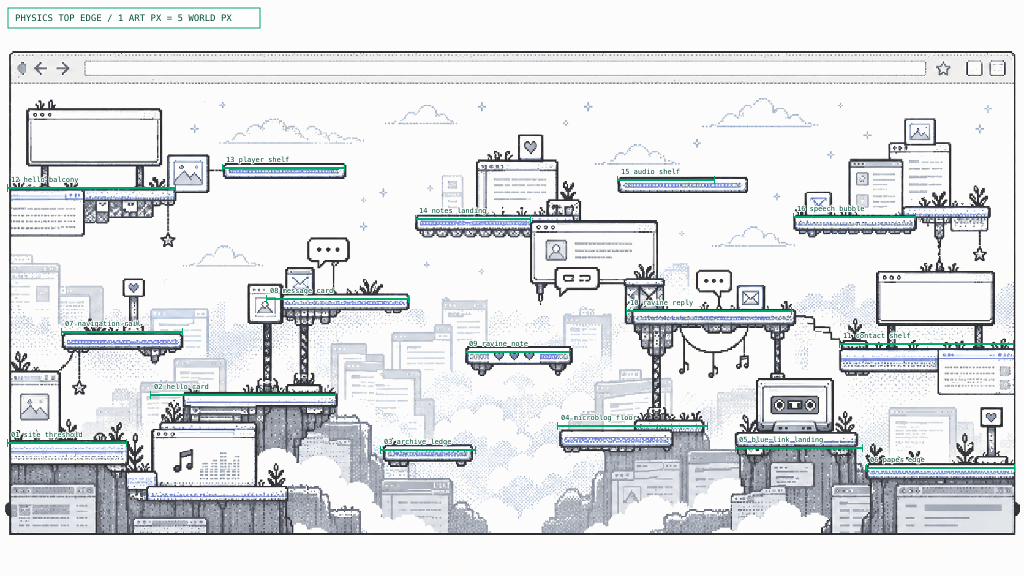
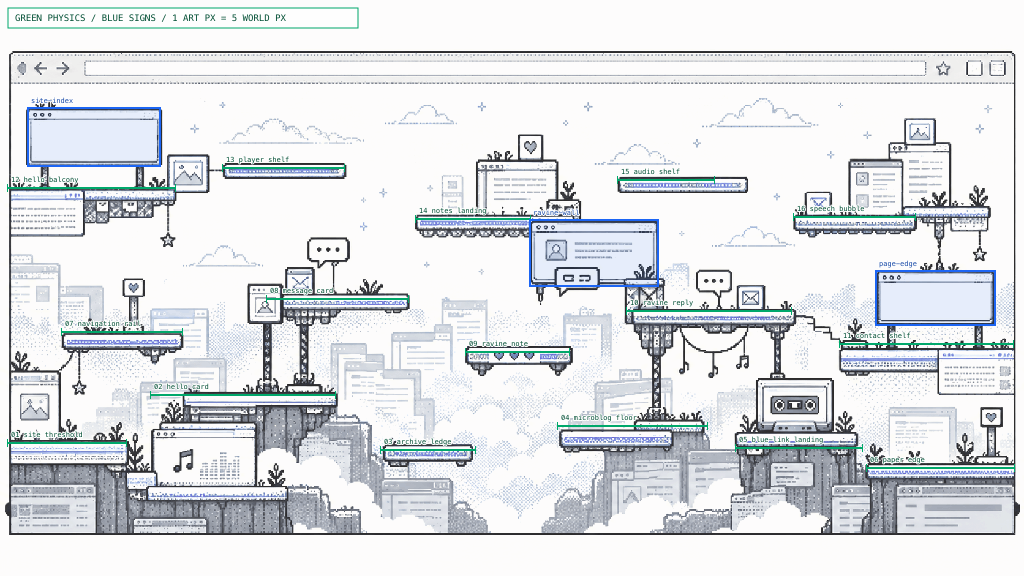
Register signs and widen cherry tree collision

diff --git a/shared/maps/overworld.js b/shared/maps/overworld.js
@@ -17,6 +17,17 @@ const platformPx = (x, y, w, kind, feature, h = 32) => ({
   x: x * ART_SCALE, y: y * ART_SCALE, w: w * ART_SCALE, h, kind, feature,
   artPixel: { x, y, w }
 });
+const trunkPx = (x, y, w, h, feature) => ({
+  x: x * ART_SCALE, y: y * ART_SCALE, w: w * ART_SCALE, h: h * ART_SCALE,
+  kind: 'trunk', feature, artPixel: { x, y, w, h }
+});
+const billboardPx = (id, regionId, x, y, w, h, label) => {
+  const region = regions.find(({ id: candidate }) => candidate === regionId);
+  return {
+    id, region: regionId, x: region.x + x * ART_SCALE, y: y * ART_SCALE,
+    w: w * ART_SCALE, h: h * ART_SCALE, label, artPixel: { x, y, w, h }
+  };
+};
 
 const sectionSpecs = {
   snowfield: [
@@ -51,7 +62,12 @@ const sectionSpecs = {
     platformPx(197, 213, 127, 'branch', 'lantern limb'),
     platformPx(827, 214, 114, 'branch', 'canopy post'),
     platformPx(493, 218, 132, 'branch', 'Isobel house limb'),
-    platformPx(548, 224.4, 16, 'trunk', 'central cherry trunk', 1448),
+    trunkPx(500, 136.4, 125, 81.6, 'central trunk / crown neck'),
+    trunkPx(510, 224.4, 105, 70.6, 'central trunk / upper taper'),
+    trunkPx(495, 301.4, 130, 121.6, 'central trunk / middle taper'),
+    trunkPx(480, 423, 160, 37, 'central trunk / lower flare'),
+    trunkPx(460, 460, 200, 40, 'central trunk / broad base'),
+    trunkPx(430, 500, 260, 14, 'central trunk / root crown'),
     platformPx(410, 130, 122, 'branch', 'west crown'),
     platformPx(585, 130, 133, 'branch', 'east crown')
   ],
@@ -182,13 +198,13 @@ const humanoids = [
 ];
 
 const billboards = [
-  { id: 'snow-trail', x: 260, y: 1890, w: 420, h: 220, label: 'TRAIL NOTICE / OPEN SPACE' },
-  { id: 'mountain-overlook', x: 3230, y: 610, w: 520, h: 220, label: 'MOUNTAIN SIGNAL / OPEN SPACE' },
-  { id: 'tree-left', x: 5900, y: 1900, w: 400, h: 210, label: 'HANGING SCROLL / OPEN SPACE' },
-  { id: 'tree-right', x: 9100, y: 1480, w: 420, h: 210, label: 'CANOPY POSTER / OPEN SPACE' },
-  { id: 'site-index', x: 10450, y: 700, w: 620, h: 260, label: 'SITE WINDOW / OPEN SPACE' },
-  { id: 'ravine-wall', x: 12920, y: 1220, w: 520, h: 250, label: 'BLOG FEATURE / OPEN SPACE' },
-  { id: 'page-edge', x: 14620, y: 1460, w: 500, h: 240, label: 'LINK PANEL / OPEN SPACE' }
+  billboardPx('snow-trail', 'snowfield', 44, 381, 101, 44, 'TRAIL NOTICE / OPEN SPACE'),
+  billboardPx('mountain-overlook', 'snowfield', 640, 127, 99, 39, 'MOUNTAIN SIGNAL / OPEN SPACE'),
+  billboardPx('tree-left', 'blossom-crown', 110, 375, 100, 41, 'HANGING SCROLL / OPEN SPACE'),
+  billboardPx('tree-right', 'blossom-crown', 792, 277, 90, 37, 'CANOPY POSTER / OPEN SPACE'),
+  billboardPx('site-index', 'live-web', 28, 108, 132, 58, 'SITE WINDOW / OPEN SPACE'),
+  billboardPx('ravine-wall', 'live-web', 530, 220, 128, 66, 'BLOG FEATURE / OPEN SPACE'),
+  billboardPx('page-edge', 'live-web', 876, 271, 119, 54, 'LINK PANEL / OPEN SPACE')
 ];
 
 const waypoints = [

diff --git a/client/src/world/RegionBackdrop.js b/client/src/world/RegionBackdrop.js
@@ -152,7 +152,7 @@ export default class RegionBackdrop {
       const card = this.keep(this.scene.add.container(post.x, post.y).setDepth(-3));
       const box = this.scene.add.rectangle(0, 0, 680, 250, WORLD_COLOR.paper, 0.9).setStrokeStyle(2, WORLD_COLOR.inkSoft, 0.55);
       const date = this.scene.add.text(-300, -94, post.date, { fontFamily: WORLD_TYPE.ui, fontSize: '14px', color: WORLD_CSS.linkBlue });
-      const title = this.scene.add.text(-300, -48, post.title, { fontFamily: WORLD_TYPE.display, fontSize: '23px', color: WORLD_CSS.ink });
+      const title = this.scene.add.text(-300, -48, post.title, { fontFamily: WORLD_TYPE.display, fontSize: '24px', color: WORLD_CSS.ink });
       const body = this.scene.add.text(-300, 10, post.body, { fontFamily: WORLD_TYPE.ui, fontSize: '14px', color: WORLD_CSS.inkSoft });
       const footer = this.scene.add.text(-300, 64, 'reply · archive · next', { fontFamily: WORLD_TYPE.ui, fontSize: '12px', color: WORLD_CSS.inkSoft });
       card.add([box, date, title, body, footer]);
@@ -163,13 +163,13 @@ export default class RegionBackdrop {
 
   drawBillboards() {
     (this.map.billboards || []).forEach((board) => {
-      const g = this.keep(this.scene.add.graphics().setDepth(-1));
-      g.lineStyle(3, WORLD_COLOR.ink, 0.68);
-      g.fillStyle(WORLD_COLOR.paper, 0.8);
-      g.fillRect(board.x, board.y, board.w, board.h);
-      g.strokeRect(board.x, board.y, board.w, board.h);
-      g.lineBetween(board.x + 52, board.y + board.h, board.x + 52, board.y + board.h + 90);
-      g.lineBetween(board.x + board.w - 52, board.y + board.h, board.x + board.w - 52, board.y + board.h + 90);
+      if (!board.artPixel) {
+        const g = this.keep(this.scene.add.graphics().setDepth(-1));
+        g.lineStyle(3, WORLD_COLOR.ink, 0.68);
+        g.fillStyle(WORLD_COLOR.paper, 0.8);
+        g.fillRect(board.x, board.y, board.w, board.h);
+        g.strokeRect(board.x, board.y, board.w, board.h);
+      }
       this.keep(this.scene.add.text(board.x + board.w / 2, board.y + board.h / 2, board.label, {
         fontFamily: WORLD_TYPE.ui,
         fontSize: '14px',
